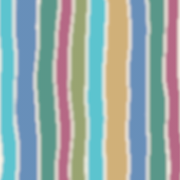
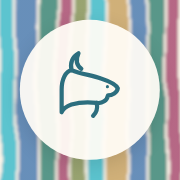
Rename to Note Goat; add a goat-head mark; match repo layout to siblings
Renamed throughout: title, manifest, sidebar brand, manual, README,
DESIGN.md, PWA cache name, export filename prefix, and the Drive
folder/file names the app creates on sync. Left internal storage keys
(localStorage key, IndexedDB database name) untouched on purpose -- pure
identifiers, never shown to anyone, and changing them risks silently
orphaning any local data someone's already created; renaming them would
cost real risk for zero user-facing benefit.

New goat-head mark, same technique as Archive Mole's mole (inline SVG,
currentColor stroke, a cutout-style eye) but its own profile silhouette
-- hook horn, chin beard, pointed snout -- designed and checked at actual
render size (16-22px), not just at preview scale, after an early rounder
draft proved illegible that small. Sits next to the wordmark in the
sidebar and the manual's masthead, same placement convention as Archive
Mole.

New app icon: the goat over an ivory badge on the existing watercolor
stripe background -- reuses the sidebar's own frosted-badge-over-stripes
motif rather than inventing a new contrast mechanism, so it stays legible
regardless of which stripe colors land behind it at any icon size.

Added .gitignore matching U/I's (the one sibling that has one) for full
structural parity: DESIGN.md, README.md, LICENSE, .gitignore, icons/,
index.html, manifest.json, sw.js.

Also fixed a stale home-page string left over from an earlier build
[…]

diff --git a/index.html b/index.html
@@ -3,14 +3,14 @@
 <head>
 <meta charset="UTF-8">
 <meta name="viewport" content="width=device-width, initial-scale=1.0">
-<title>Task Catcher</title>
+<title>Note Goat</title>
 <link rel="manifest" href="manifest.json" />
 <link rel="apple-touch-icon" href="icons/icon-180.png" />
 <link rel="icon" href="icons/icon-192.png" />
 <meta name="theme-color" content="#2C6E7E" />
 <meta name="apple-mobile-web-app-capable" content="yes" />
 <meta name="apple-mobile-web-app-status-bar-style" content="default" />
-<meta name="apple-mobile-web-app-title" content="Task Catcher" />
+<meta name="apple-mobile-web-app-title" content="Note Goat" />
 <link rel="preconnect" href="https://fonts.googleapis.com">
 <link href="https://fonts.googleapis.com/css2?family=Inter:wght@400;500;600;700&family=IBM+Plex+Mono:wght@400;500&display=swap" rel="stylesheet">
 <script src="https://accounts.google.com/gsi/client" async defer></script>
@@ -104,8 +104,9 @@ h1,h2,h3{margin:0;}
 .brand-mark{
   font-size:17px;font-weight:700;letter-spacing:-0.01em;
   background:rgba(255,252,245,0.82);backdrop-filter:blur(4px);
-  display:inline-block;padding:3px 9px;border-radius:7px;
+  display:inline-flex;align-items:center;gap:7px;padding:3px 10px 3px 6px;border-radius:7px;
 }
+.goat-mark{width:20px;height:20px;color:var(--accent);flex-shrink:0;}
 .brand-sub{font-family:var(--font-mono);font-size:10px;color:var(--ink-dim);margin-top:5px;text-transform:uppercase;letter-spacing:0.06em;
   background:rgba(255,252,245,0.82);display:inline-block;padding:2px 8px;border-radius:6px;}
 
@@ -316,7 +317,17 @@ table.record-table td.actions{white-space:nowrap;width:1%;}
     <div class="brand">
       <div class="brand-watercolor"></div>
       <div class="brand-inner">
-        <div class="brand-mark">Task Catcher</div>
+        <div class="brand-mark">
+          <svg class="goat-mark" viewBox="0 0 32 32" fill="none" xmlns="http://www.w3.org/2000/svg" aria-hidden="true">
+            <g stroke="currentColor" stroke-width="1.5" stroke-linecap="round" stroke-linejoin="round">
+              <path d="M6 24 L6 16 C6 12 7.5 9.5 9.5 9 C13 10.5 17 10.8 20 12 C23 13 25.5 14.3 26 15.5 C25.8 17 24 18 22.5 18 C22.2 19.8 20.5 21 18.5 20.7 C15 20.3 11.8 20.6 9.5 21.3 C7.5 22 6.5 22.9 6 24 Z"/>
+              <path d="M18.5 20.7 C18.9 22.8 18.3 24.3 17.2 25.3"/>
+              <path d="M9.5 9 C9 6.5 9.8 4.3 12 3 C11 5.3 11.3 7.3 13 8.5"/>
+              <circle cx="22.3" cy="14.9" r="0.55" fill="currentColor" stroke="none"/>
+            </g>
+          </svg>
+          Note Goat
+        </div>
         <div class="brand-sub">local &amp; private</div>
       </div>
     </div>
@@ -340,10 +351,10 @@ table.record-table td.actions{white-space:nowrap;width:1%;}
 <div class="manual-overlay" id="manualOverlay">
   <div class="manual-overlay-box">
     <div class="manual-overlay-head">
-      <span>Task Catcher — Manual</span>
+      <span>Note Goat — Manual</span>
       <button class="modal-close" id="manualCloseBtn">✕</button>
     </div>
-    <iframe id="manualFrame" title="Task Catcher Manual"></iframe>
+    <iframe id="manualFrame" title="Note Goat Manual"></iframe>
   </div>
 </div>
 
@@ -662,7 +673,7 @@ function renderHome(){
   mainArea.appendChild(cards);
 
   const roadmap = el('div', 'roadmap-note',
-    'Add your Anthropic and Google keys under Connections to light up AI capture, AI-assisted module setup, and Sheets/Docs/Calendar sync. Still not built: phone install (PWA) files, and Drive file/photo links.');
+    'Add your Anthropic and Google keys under Settings to light up AI capture, AI-assisted module setup, and Sheets/Docs/Calendar sync. Click Manual for a full walkthrough of every feature.');
   mainArea.appendChild(roadmap);
 }
 
@@ -1191,7 +1202,7 @@ const AI_FIELD_TYPE_NAMES = 'text (short text), longtext (long text), date, numb
 async function proposeModuleFromAI(description){
   const moduleNames = state.modules.map(m => m.name);
   const system = [
-    'You are helping someone design a new module (a record type) for Task Catcher, a personal organizer app.',
+    'You are helping someone design a new module (a record type) for Note Goat, a personal organizer app.',
     'A module has a name, a "shape" (table = repeating rows of similar records; notes = freeform long-form entries with no custom fields; checklist = simple done/not-done items; event = things with a date; files = one uploaded file/photo per record, e.g. scanned documents), and a list of fields.',
     'Available field types: ' + AI_FIELD_TYPE_NAMES + '.',
     'Existing modules the person already has, that new fields can link to if it genuinely makes sense: ' + (moduleNames.length ? moduleNames.join(', ') : '(none yet)') + '.',
@@ -1781,7 +1792,7 @@ async function buildExportPayload(){
     }
   }
   return JSON.stringify({
-    appVersion: 'task-catcher-v1',
+    appVersion: 'note-goat-v1',
     exportedAt: Date.now(),
     modules,
     records,
@@ -1794,7 +1805,7 @@ async function triggerExportDownload(auto){
   const url = URL.createObjectURL(blob);
   const dateStr = new Date().toISOString().slice(0, 10);
   const a = document.createElement('a');
-  a.href = url; a.download = 'task-catcher-backup-' + dateStr + '.json';
+  a.href = url; a.download = 'note-goat-backup-' + dateStr + '.json';
   document.body.appendChild(a); a.click(); a.remove();
   setTimeout(() => URL.revokeObjectURL(url), 2000);
   state.settings.lastExportedAt = Date.now();
@@ -1811,12 +1822,12 @@ function openImportPicker(onDone){
     try {
       const text = await file.text();
       parsed = JSON.parse(text);
-      if (!parsed || !Array.isArray(parsed.modules) || typeof parsed.records !== 'object') throw new Error('not a Task Catcher backup file');
+      if (!parsed || !Array.isArray(parsed.modules) || typeof parsed.records !== 'object') throw new Error('not a Note Goat backup file');
     } catch(e){
-      alert('Couldn\'t read that file as a Task Catcher backup (' + e.message + ').');
+      alert('Couldn\'t read that file as a Note Goat backup (' + e.message + ').');
       return;
     }
-    const ok = await confirmModal('This replaces <strong>everything</strong> currently in Task Catcher — ' +
+    const ok = await confirmModal('This replaces <strong>everything</strong> currently in Note Goat — ' +
       state.modules.length + ' module' + (state.modules.length===1?'':'s') + ' — with what\'s in this file (from ' +
       (parsed.exportedAt ? formatDateTime(parsed.exportedAt) : 'an unknown time') + '). This can\'t be undone. Continue?');
     if (!ok) return;
@@ -2055,8 +2066,8 @@ async function findOrCreateFolder(name, parentId){
 
 async function syncModuleToSheets(mod){
   if (!state.settings.spreadsheetId){
-    const folderId = await findOrCreateFolder('Task Catcher', null);
-    const res = await gapi.client.sheets.spreadsheets.create({ properties: { title: 'Task Catcher Sync' } });
+    const folderId = await findOrCreateFolder('Note Goat', null);
+    const res = await gapi.client.sheets.spreadsheets.create({ properties: { title: 'Note Goat Sync' } });
     state.settings.spreadsheetId = res.result.spreadsheetId;
     await gapi.client.drive.files.update({ fileId: state.settings.spreadsheetId, addParents: folderId, removeParents: 'root', fields: 'id,parents' });
   }
@@ -2082,8 +2093,8 @@ async function syncModuleToSheets(mod){
 
 async function syncModuleToDocx(mod){
   if (!mod.docId){
-    const folderId = await findOrCreateFolder('Task Catcher', null);
-    const res = await gapi.client.docs.documents.create({ resource: { title: 'Task Catcher — ' + mod.name } });
+    const folderId = await findOrCreateFolder('Note Goat', null);
+    const res = await gapi.client.docs.documents.create({ resource: { title: 'Note Goat — ' + mod.name } });
     mod.docId = res.result.documentId;
     await gapi.client.drive.files.update({ fileId: mod.docId, addParents: folderId, removeParents: 'root', fields: 'id,parents' });
   }
@@ -2156,7 +2167,7 @@ function formatDateTime(ts){
 /* =========================================================
    Manual — a self-contained document (its own <style>, own fonts) since
    it's rendered in an iframe via srcdoc and inherits nothing from the
-   parent page. Colors are Task Catcher's own tokens, not copied from
+   parent page. Colors are Note Goat's own tokens, not copied from
    any sibling app's manual, so it reads as part of this app.
    ========================================================= */
 let manualLoaded = false;
@@ -2187,7 +2198,8 @@ body{margin:0;background:var(--ground);color:var(--text);font-family:var(--sans)
   background:linear-gradient(rgba(255,255,255,0.15),rgba(255,255,255,0.15)),
   repeating-linear-gradient(90deg,#2FB4C2 0 22px,#3E6FA6 22px 50px,#2C7A68 50px 74px,#A13E63 74px 92px,#7C8A4A 92px 112px,#C39A52 112px 140px);}
 .eyebrow{font-family:var(--mono);font-size:11px;letter-spacing:0.1em;text-transform:uppercase;color:var(--accent);margin:0 0 8px;}
-.masthead h1{font-family:var(--mono);font-size:28px;margin:0 0 10px;}
+.masthead h1{font-family:var(--mono);font-size:28px;margin:0 0 10px;display:flex;align-items:center;gap:10px;}
+.masthead h1 svg{width:30px;height:30px;color:var(--accent);flex-shrink:0;}
 .lede{color:var(--text2);max-width:64ch;margin:0 0 16px;}
 .factrow{display:flex;flex-wrap:wrap;gap:8px 18px;font-family:var(--mono);font-size:12px;color:var(--text2);}
 .factrow b{color:var(--text);font-weight:600;}
@@ -2216,7 +2228,17 @@ footer{margin-top:20px;padding-top:20px;border-top:1px solid var(--line);color:v
   <header class="masthead">
     <div class="stripe"></div>
     <p class="eyebrow">User manual</p>
-    <h1>Task Catcher</h1>
+    <h1>
+      <svg viewBox="0 0 32 32" fill="none" xmlns="http://www.w3.org/2000/svg" aria-hidden="true">
+        <g stroke="currentColor" stroke-width="1.5" stroke-linecap="round" stroke-linejoin="round">
+          <path d="M6 24 L6 16 C6 12 7.5 9.5 9.5 9 C13 10.5 17 10.8 20 12 C23 13 25.5 14.3 26 15.5 C25.8 17 24 18 22.5 18 C22.2 19.8 20.5 21 18.5 20.7 C15 20.3 11.8 20.6 9.5 21.3 C7.5 22 6.5 22.9 6 24 Z"/>
+          <path d="M18.5 20.7 C18.9 22.8 18.3 24.3 17.2 25.3"/>
+          <path d="M9.5 9 C9 6.5 9.8 4.3 12 3 C11 5.3 11.3 7.3 13 8.5"/>
+          <circle cx="22.3" cy="14.9" r="0.55" fill="currentColor" stroke="none"/>
+        </g>
+      </svg>
+      Note Goat
+    </h1>
     <p class="lede">A single-file, browser-only, domain-agnostic personal organizer — appointments, doctors, medications, tasks, notes, files, or whatever you build a module for.</p>
     <div class="factrow">
       <span><b>Runs</b>&nbsp;entirely in your browser</span>
@@ -2356,7 +2378,7 @@ footer{margin-top:20px;padding-top:20px;border-top:1px solid var(--line);color:v
         </ul>
       </section>
 
-      <footer>Task Catcher is a self-contained page — this manual describes its behavior as installed, based on how the app itself is built. It has no version number to cite.</footer>
+      <footer>Note Goat is a self-contained page — this manual describes its behavior as installed, based on how the app itself is built. It has no version number to cite.</footer>
     </main>
   </div>
 </div>

diff --git a/sw.js b/sw.js
@@ -2,7 +2,7 @@
 // offline and so browsers recognize this as a real installable PWA.
 // This only caches the static shell, never any of your module/record data
 // or your Anthropic/Google keys — those live only in localStorage.
-const CACHE = 'task-catcher-shell-v1';
+const CACHE = 'note-goat-shell-v1';
 const ASSETS = ['./', './index.html', './manifest.json', './icons/icon-192.png', './icons/icon-512.png'];
 
 self.addEventListener('install', (event) => {

diff --git a/README.md b/README.md
@@ -1,8 +1,8 @@
-# Task Catcher
+# Note Goat
 
 A single-file, browser-only, domain-agnostic personal organizer. Where
 [Project Manager](https://github.com/laustenfaund/ProjectManager) tracks one
-kind of thing (construction projects) with a fixed set of tabs, Task Catcher
+kind of thing (construction projects) with a fixed set of tabs, Note Goat
 is built for whatever a person actually needs organized — appointments,
 doctors, medications, tasks, notes, or anything else — through user-named
 modules instead of a fixed structure.
@@ -67,7 +67,7 @@ feature.
   AI-cleaned text; this keeps the actual file, on purpose, no AI involved.
 - **Manual** — 📖 Manual (sidebar) opens a full walkthrough of every
   feature, same pattern as U/I's and Archive Mole's manuals, styled to
-  match Task Catcher's own colors.
+  match Note Goat's own colors.
 
 Phase 5 is complete.
 
@@ -94,7 +94,7 @@ cache instead of just a bookmark.
 1. Make sure this repo is public (Settings → Danger Zone → Change
    visibility), then enable GitHub Pages (Settings → Pages → Deploy from
    branch → `main` → `/` root).
-2. Once it's live, open `https://<your-username>.github.io/Task_Catcher/`
+2. Once it's live, open `https://<your-username>.github.io/Note_Goat/`
    on your phone — not the repo's `github.com` page.
 3. Use your browser's "Add to Home Screen" / "Install app" option.
 

diff --git a/DESIGN.md b/DESIGN.md
@@ -1,4 +1,4 @@
-# Task Catcher — design notes
+# Note Goat — design notes
 
 This document exists so the shape of the app doesn't have to be re-derived
 from memory later, and so future changes can be checked against the
@@ -282,7 +282,7 @@ rather than as a generic proof of the module system:
 
 A deliberate departure from PM and Archive Mole, both of which accept "no
 export/backup, `localStorage` is the only copy" as a known risk rather than
-solving it. Task Catcher's single-person, cross-device use (one person's
+solving it. Note Goat's single-person, cross-device use (one person's
 own laptop and phone, no account, no server) makes that risk worth actually
 addressing rather than inheriting by default.
 
